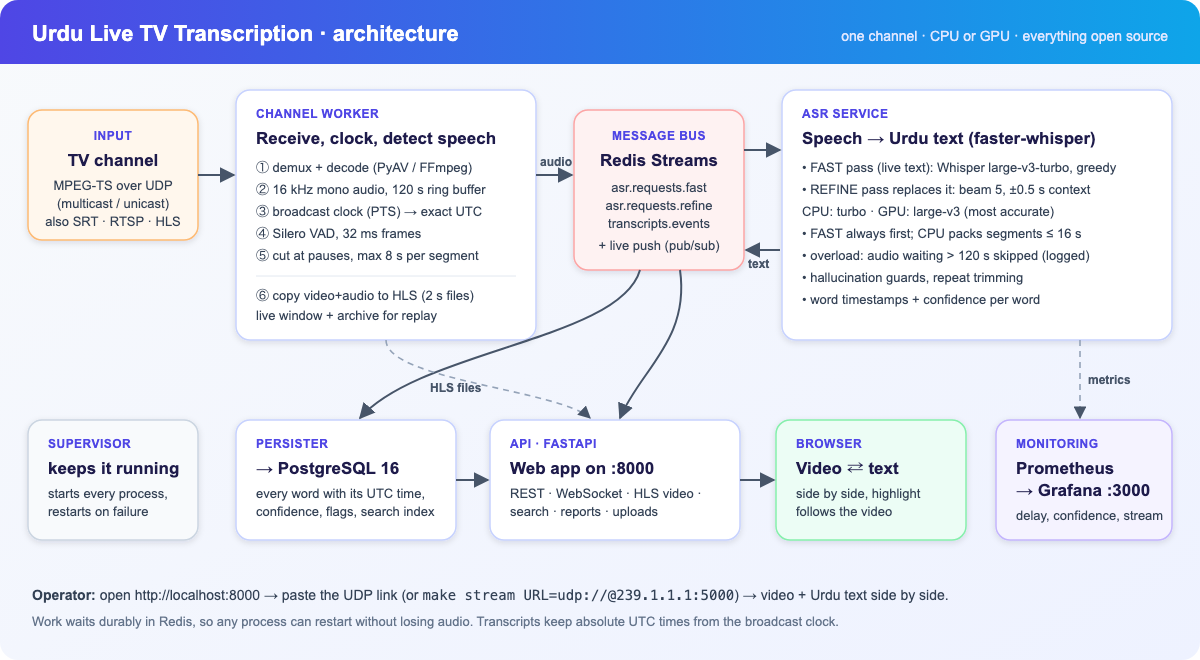
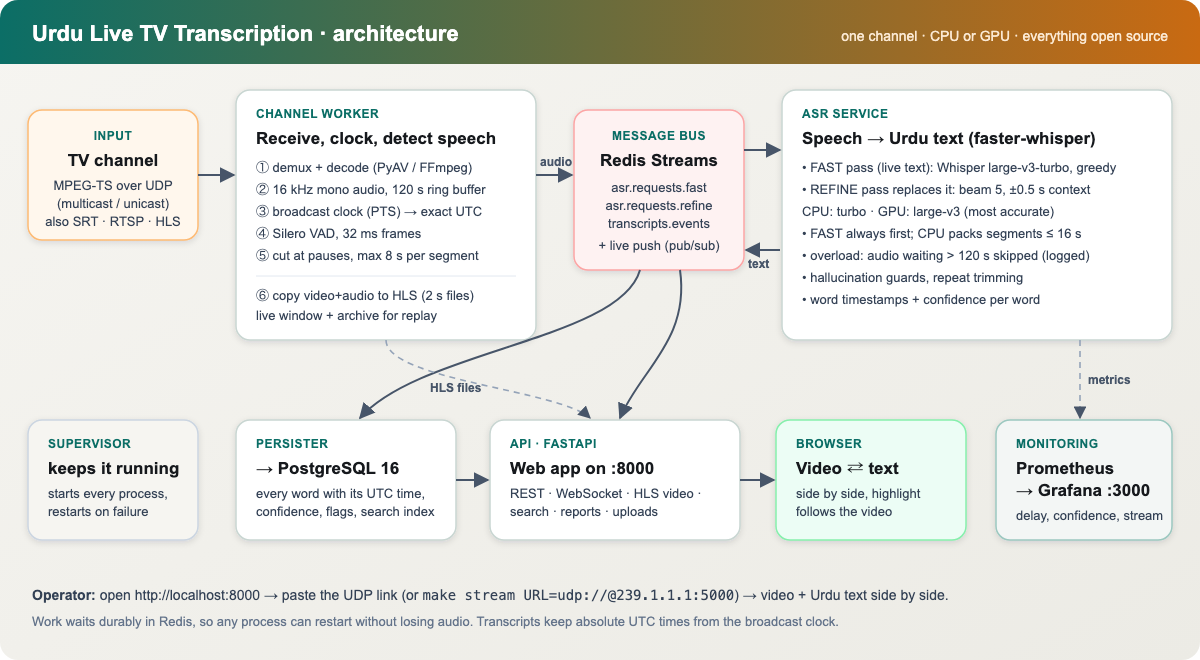
v0.2.5: new UI colour scheme with clearer buttons and depth effects; 6 s segment benchmark (8 s kept)

diff --git a/ui/common.css b/ui/common.css
@@ -1,18 +1,23 @@
 /* Shared look for every live-stt page. Light by default; the ☀/☾ button in the top bar switches to
    dark (remembered in this browser). */
 :root {
-  --bg: #f4f6fb; --panel: #ffffff; --panel2: #f8fafc; --ink: #0f172a; --muted: #64748b; --line: #e2e8f0;
-  --accent: #4f46e5; --accent2: #0ea5e9; --accent-ink: #ffffff; --soft: #eef2ff;
-  --ok: #15803d; --ok-soft: #dcfce7; --warn: #b45309; --warn-soft: #fef3c7; --bad: #dc2626; --bad-soft: #fee2e2;
-  --hi: #fef9c3; --shadow: 0 1px 2px rgba(15, 23, 42, .06), 0 4px 16px rgba(15, 23, 42, .06);
+  /* Broadcast-desk palette: warm paper, graphite ink, deep teal for actions, amber for "now". */
+  --bg: #f3f2ee; --panel: #ffffff; --panel2: #f7f6f2; --ink: #16191d; --muted: #4f5862; --line: #dcdad3;
+  --accent: #0b6e66; --accent2: #c96a12; --accent-ink: #ffffff; --soft: #e2f0ed; --btn-line: #b9bdb8;
+  --ok: #167343; --ok-soft: #dcf2e4; --warn: #9a5508; --warn-soft: #fbedd5; --bad: #c42b2b; --bad-soft: #fbe1df;
+  --hi: #fde7b5; --shadow: 0 1px 1px rgba(22, 25, 29, .05), 0 6px 22px -8px rgba(22, 25, 29, .16);
+  --shadow-lift: 0 2px 4px rgba(22, 25, 29, .06), 0 18px 40px -14px rgba(22, 25, 29, .28);
+  --glow1: rgba(11, 110, 102, .10); --glow2: rgba(201, 106, 18, .08);
   --radius: 14px; --urdu-size: 22px;
   color-scheme: light;
 }
 :root[data-theme="dark"] {
-  --bg: #0b1020; --panel: #121a2e; --panel2: #0f1628; --ink: #e5e9f5; --muted: #94a3b8; --line: #23304d;
-  --accent: #818cf8; --accent2: #38bdf8; --accent-ink: #0b1020; --soft: #1e2547;
-  --ok: #4ade80; --ok-soft: #12321f; --warn: #fbbf24; --warn-soft: #3a2a07; --bad: #f87171; --bad-soft: #3b1414;
-  --hi: #3a3410; --shadow: 0 1px 2px rgba(0, 0, 0, .4), 0 4px 16px rgba(0, 0, 0, .3);
+  --bg: #0f1214; --panel: #171b1e; --panel2: #1c2124; --ink: #ecefee; --muted: #a9b1b6; --line: #2a3135;
+  --accent: #3cc5b0; --accent2: #f0a24a; --accent-ink: #062320; --soft: #15322e; --btn-line: #3d464b;
+  --ok: #5bd28c; --ok-soft: #133022; --warn: #f3b552; --warn-soft: #3a2a0c; --bad: #ff8077; --bad-soft: #3d1715;
+  --hi: #4a3a12; --shadow: 0 1px 2px rgba(0, 0, 0, .45), 0 8px 24px -10px rgba(0, 0, 0, .6);
+  --shadow-lift: 0 2px 6px rgba(0, 0, 0, .5), 0 22px 44px -14px rgba(0, 0, 0, .75);
+  --glow1: rgba(60, 197, 176, .09); --glow2: rgba(240, 162, 74, .06);
   color-scheme: dark;
 }
 * { box-sizing: border-box; }
@@ -22,27 +27,39 @@ body { margin: 0; background: var(--bg); color: var(--ink);
        font: 15px/1.5 "Inter", system-ui, -apple-system, "Segoe UI", Roboto, sans-serif; }
 a { color: var(--accent); text-decoration: none; }
 a:hover { text-decoration: underline; }
-input, select, button, textarea { font: inherit; padding: 7px 11px; border: 1px solid var(--line); border-radius: 10px;
+input, select, button, textarea { font: inherit; padding: 8px 12px; border: 1px solid var(--btn-line); border-radius: 10px;
                                    background: var(--panel); color: var(--ink); min-width: 0; }
-input:focus, select:focus, textarea:focus { outline: 2px solid var(--soft); border-color: var(--accent); }
-button { cursor: pointer; font-weight: 500; transition: border-color .15s, background .15s; }
-button:hover:not(:disabled) { border-color: var(--accent); }
-button.primary { background: var(--accent); border-color: var(--accent); color: var(--accent-ink); }
-button.primary:hover:not(:disabled) { filter: brightness(1.08); }
+input:focus, select:focus, textarea:focus { outline: 3px solid var(--soft); border-color: var(--accent); }
+:focus-visible { outline: 3px solid var(--accent); outline-offset: 2px; }
+button { cursor: pointer; font-weight: 600; font-size: 14.5px; letter-spacing: .005em; color: var(--ink);
+         transition: border-color .15s, background .15s, transform .15s, box-shadow .15s; box-shadow: 0 1px 0 rgba(0,0,0,.04); }
+button:hover:not(:disabled) { border-color: var(--accent); color: var(--accent); transform: translateY(-1px); box-shadow: var(--shadow); }
+button:active:not(:disabled) { transform: translateY(0); }
+button.primary { background: var(--accent); border-color: var(--accent); color: var(--accent-ink);
+                 box-shadow: 0 1px 0 rgba(255,255,255,.18) inset, 0 4px 14px -6px var(--accent); }
+button.primary:hover:not(:disabled) { color: var(--accent-ink); filter: brightness(1.07); }
 button.ghost { background: transparent; }
 button:disabled { opacity: .55; cursor: default; }
 
 /* ---- top bar */
 nav.top { display: flex; flex-wrap: wrap; gap: 6px 4px; align-items: center; padding: 10px 20px;
-          background: var(--panel); border-bottom: 1px solid var(--line); position: sticky; top: 0; z-index: 5; }
+          background: color-mix(in srgb, var(--panel) 86%, transparent); backdrop-filter: saturate(1.4) blur(12px);
+          -webkit-backdrop-filter: saturate(1.4) blur(12px); border-bottom: 1px solid var(--line); position: sticky; top: 0; z-index: 5; }
 nav.top .brand { display: flex; min-width: 0; align-items: center; gap: 10px; font-weight: 700; font-size: 17px; margin-inline-end: 14px; color: var(--ink); }
-nav.top .brand .logo { width: 30px; height: 30px; border-radius: 9px; display: grid; place-items: center; color: #fff; font-size: 15px;
-                       background: linear-gradient(135deg, var(--accent), var(--accent2)); }
-nav.top a.tab { color: var(--muted); padding: 7px 12px; border-radius: 9px; white-space: nowrap; font-weight: 500; }
+nav.top .brand .logo { width: 32px; height: 32px; border-radius: 9px; display: flex; align-items: center; justify-content: center; gap: 2px;
+                       background: var(--ink); box-shadow: 0 6px 14px -6px rgba(0,0,0,.5), inset 0 1px 0 rgba(255,255,255,.12); }
+nav.top .brand .logo i { width: 3px; height: 40%; border-radius: 2px; background: var(--accent2); animation: eq 1.1s ease-in-out infinite; }
+nav.top .brand .logo i:nth-child(2) { animation-delay: -.25s; background: #fff; }
+nav.top .brand .logo i:nth-child(3) { animation-delay: -.5s; }
+nav.top .brand .logo i:nth-child(4) { animation-delay: -.75s; background: #fff; }
+:root[data-theme="dark"] nav.top .brand .logo { background: #262d31; }
+@keyframes eq { 0%, 100% { height: 30%; } 50% { height: 72%; } }
+nav.top a.tab { color: var(--muted); padding: 8px 13px; border-radius: 9px; white-space: nowrap; font-weight: 600; font-size: 14.5px; position: relative; }
 nav.top a.tab:hover { background: var(--panel2); color: var(--ink); text-decoration: none; }
-nav.top a.tab.on { background: var(--soft); color: var(--accent); font-weight: 600; }
+nav.top a.tab.on { background: var(--soft); color: var(--accent); font-weight: 700; }
+nav.top a.tab.on::after { content: ""; position: absolute; inset: auto 13px -11px 13px; height: 3px; border-radius: 3px 3px 0 0; background: var(--accent); }
 nav.top .sp { flex: 1; }
-.pill { font-size: 12.5px; padding: 4px 10px; border-radius: 999px; border: 1px solid var(--line); color: var(--muted);
+.pill { font-size: 13px; padding: 5px 11px; border-radius: 999px; border: 1px solid var(--btn-line); color: var(--ink);
         white-space: nowrap; background: var(--panel); font-weight: 500; }
 a.pill:hover { text-decoration: none; border-color: var(--accent); }
 .pill.ok { color: var(--ok); border-color: transparent; background: var(--ok-soft); }
@@ -99,9 +116,9 @@ table.t th { font-size: 12px; color: var(--muted); font-weight: 600; }
 /* ---- metric cards */
 .metrics { display: grid; gap: 14px; grid-template-columns: repeat(auto-fit, minmax(190px, 1fr)); margin-bottom: 16px; }
 .metric { background: var(--panel); border: 1px solid var(--line); border-radius: var(--radius); padding: 14px 16px; box-shadow: var(--shadow); min-width: 0; }
-.metric .k { font-size: 12.5px; color: var(--muted); font-weight: 600; text-transform: uppercase; letter-spacing: .03em; }
+.metric .k { font-size: 13px; color: var(--muted); font-weight: 600; text-transform: uppercase; letter-spacing: .03em; }
 .metric .v { font-size: 30px; font-weight: 700; margin: 2px 0; font-variant-numeric: tabular-nums; line-height: 1.2; }
-.metric .h { font-size: 12.5px; color: var(--muted); }
+.metric .h { font-size: 13px; color: var(--muted); }
 .metric.good .v { color: var(--ok); } .metric.mid .v { color: var(--warn); } .metric.bad .v { color: var(--bad); }
 
 /* ---- transcript lines */
@@ -143,3 +160,31 @@ code { font-size: 12.5px; background: var(--panel2); border: 1px solid var(--lin
 }
 .tools { display: flex; flex-wrap: wrap; gap: 8px; align-items: center; margin-top: 10px; }
 .tools .grow { flex: 1; }
+
+/* ---- depth & motion: ambient light, card lift with a slight 3D tilt (common.js), staggered entrance */
+body { background:
+  radial-gradient(1100px 520px at 8% -8%, var(--glow1), transparent 60%),
+  radial-gradient(900px 480px at 100% 0%, var(--glow2), transparent 60%), var(--bg); background-attachment: fixed; }
+body.embed { background: var(--bg); }
+.card, .metric { transform-style: preserve-3d; transition: transform .35s cubic-bezier(.2,.7,.2,1), box-shadow .35s, border-color .35s; }
+.metric { position: relative; overflow: hidden; }
+.metric::before { content: ""; position: absolute; inset: 0 0 auto 0; height: 3px; background: var(--line); }
+.metric.good::before { background: var(--ok); } .metric.mid::before { background: var(--warn); } .metric.bad::before { background: var(--bad); }
+.metric::after { content: ""; position: absolute; inset: 0; pointer-events: none; opacity: 0; transition: opacity .3s;
+  background: radial-gradient(260px circle at var(--mx, 50%) var(--my, 50%), rgba(255,255,255,.35), transparent 60%); }
+:root[data-theme="dark"] .metric::after { background: radial-gradient(260px circle at var(--mx, 50%) var(--my, 50%), rgba(255,255,255,.06), transparent 60%); }
+.metric.tilt, .card.tilt { box-shadow: var(--shadow-lift); }
+.metric.tilt::after { opacity: 1; }
+.fx-in { animation: fxIn .6s cubic-bezier(.2,.7,.2,1) both; }
+@keyframes fxIn { from { opacity: 0; transform: translateY(14px) scale(.985); } to { opacity: 1; transform: none; } }
+.vid { box-shadow: 0 20px 40px -22px rgba(0,0,0,.55); }
+.vid .badge { box-shadow: 0 0 0 0 rgba(196,43,43,.6); animation: live 1.8s infinite; }
+.vid .badge.replay { animation: none; }
+@keyframes live { 0% { box-shadow: 0 0 0 0 rgba(220,38,38,.55); } 70% { box-shadow: 0 0 0 10px rgba(220,38,38,0); } 100% { box-shadow: 0 0 0 0 rgba(220,38,38,0); } }
+.sent { transition: background .25s, box-shadow .25s; }
+.sent.hi { box-shadow: inset 4px 0 0 var(--accent2); background: color-mix(in srgb, var(--accent2) 11%, var(--panel)); }
+.sent .t { color: var(--accent); }
+.page-title h1, .hero h1 { letter-spacing: -.015em; }
+@media (prefers-reduced-motion: reduce) {
+  *, *::before, *::after { animation: none !important; transition: none !important; }
+}

diff --git a/ui/common.js b/ui/common.js
@@ -128,7 +128,7 @@ async function nav(active) {
   if (EMBED) { document.body.classList.add("embed"); return; }
   const n = document.createElement("nav");
   n.className = "top";
-  n.innerHTML = `<a class="brand" href="/"><span class="logo">◉</span>Urdu Live Transcription</a>` +
+  n.innerHTML = `<a class="brand" href="/"><span class="logo" aria-hidden="true"><i></i><i></i><i></i><i></i></span>Urdu Live Transcription</a>` +
     PAGES.map(([k, href, label]) => `<a class="tab${k === active ? " on" : ""}" href="${href}">${label}</a>`).join("") +
     `<span class="sp"></span><span id="navHealth" class="pill" title="Server health">checking…</span>
      <a id="navGrafana" class="pill" target="_blank" rel="noopener" title="Metrics dashboard">Grafana ↗</a>
@@ -287,3 +287,24 @@ function hlsSeekEpoch(h, video, t) {
 async function channelList() {   // live channels for selects: [{id, name}]
   try { return (await api("/channels")).map(c => ({ id: c.id, name: c.name || c.id, enabled: c.enabled })); } catch (e) { return []; }
 }
+
+// Depth: cards rise with a slight 3D tilt toward the pointer; cards fade in on load. Off for reduced motion / touch.
+(function fx() {
+  if (matchMedia("(prefers-reduced-motion: reduce)").matches) return;
+  const start = () => {
+    document.querySelectorAll(".wrap > .card, .wrap > .split > .card, .metrics > .metric, .wrap > .grid2 > .card")
+      .forEach((el, i) => { el.classList.add("fx-in"); el.style.animationDelay = `${Math.min(i, 8) * 55}ms`;
+        el.addEventListener("animationend", () => { el.classList.remove("fx-in"); el.style.animationDelay = ""; }, { once: true }); });
+  };
+  document.readyState === "loading" ? document.addEventListener("DOMContentLoaded", start) : start();
+  if (!matchMedia("(hover: hover)").matches) return;
+  document.addEventListener("pointermove", (e) => {
+    const el = e.target.closest && e.target.closest(".metric");
+    document.querySelectorAll(".metric.tilt").forEach((m) => { if (m !== el) { m.classList.remove("tilt"); m.style.transform = ""; } });
+    if (!el) return;
+    const r = el.getBoundingClientRect(), x = (e.clientX - r.left) / r.width, y = (e.clientY - r.top) / r.height;
+    el.classList.add("tilt");
+    el.style.setProperty("--mx", `${x * 100}%`); el.style.setProperty("--my", `${y * 100}%`);
+    el.style.transform = `perspective(700px) rotateX(${(0.5 - y) * 7}deg) rotateY(${(x - 0.5) * 9}deg) translateY(-3px)`;
+  }, { passive: true });
+})();

diff --git a/infra/grafana/build_dashboard.py b/infra/grafana/build_dashboard.py
@@ -75,7 +75,7 @@ DELAY_STEPS = [{"color": "green", "value": None}, {"color": "orange", "value": 2
                {"color": "red", "value": 60}]
 ch_sel = 'channel="$channel"'
 PILL = ("padding:5px 12px;border-radius:999px;border:1px solid rgba(128,128,128,.35);"
-        "text-decoration:none;font-size:13px;font-weight:500;white-space:nowrap")
+        "text-decoration:none;font-size:13.5px;font-weight:600;white-space:nowrap;color:#1f8f84")
 THEME_LINK = ("?orgId=1&theme={t}&var-ui_theme={t}&var-channel=${{channel}}&var-pg=${{pg}}"
               "&var-ui_url=${{ui_url}}&var-min_conf=${{min_conf}}&from=now-30m&to=now&refresh=5s")
 
@@ -94,13 +94,13 @@ def header() -> dict:
         '<div style="display:flex;align-items:center;gap:12px 16px;flex-wrap:wrap;'
         'padding:2px 64px 2px 2px">'  # right padding keeps clear of Grafana's hover menu
         '<div style="width:40px;height:40px;border-radius:12px;display:grid;place-items:center;'
-        'color:#fff;font-size:20px;background:linear-gradient(135deg,#4f46e5,#0ea5e9)">◉</div>'
+        'color:#fff;font-size:20px;background:#16191d;box-shadow:inset 0 -3px 0 #c96a12">◉</div>'
         '<div><div style="font-size:20px;font-weight:700;line-height:1.2">Urdu Live '
         'Transcription</div><div style="font-size:13px;opacity:.7">Channel <b>${channel}</b> · '
         'live monitoring, refreshed every 5 s</div></div>' + theme +
         '<span style="flex:1"></span>'
-        f'<a href="{UI}/" target="_blank" rel="noopener" style="{PILL};background:#4f46e5;'
-        'color:#fff;border-color:#4f46e5">▶ Open live app</a>' +
+        f'<a href="{UI}/" target="_blank" rel="noopener" style="{PILL};background:#0b6e66;'
+        'color:#fff;border-color:#0b6e66">▶ Open live app</a>' +
         "".join(f'<a href="{UI}{h}" target="_blank" rel="noopener" style="{PILL}">{t}</a>'
                 for t, h in links) + "</div>")
     return {"id": 120, "type": "text", "title": "", "transparent": True,

diff --git a/bench/run_bench.py b/bench/run_bench.py
@@ -66,6 +66,7 @@ MATRICES = {
     # Smaller chunks / smaller packs for lower delay (CPU), vs the current live FAST config.
     "latency": [Cfg(T, 1, 10, pack=28), Cfg(T, 1, 8, pack=16), Cfg(T, 1, 6, pack=12),
                 Cfg(T, 1, 4, pack=12), Cfg(T, 1, 6, pack=18)],
+    "latency6": [Cfg(T, 1, 6, pack=12), Cfg(T, 1, 6, pack=18)],
     "turbo": [Cfg(T, 1), Cfg(T, 2), Cfg(T, 5), Cfg(T, 1, 6), Cfg(T, 1, 10), Cfg(T, 1, threads=16)],
     "large": [Cfg(L, 1), Cfg(L, 5)],
 }

diff --git a/docs/BENCHMARKS.md b/docs/BENCHMARKS.md
@@ -36,6 +36,20 @@ RTF = inference seconds ÷ programme seconds (VAD-gated). Simulated latency = sp
 | large-v3 int8 b1 seg8 t8 pack28 | 24.3% | 16.1% | 24.3% | 1.064 | 1.328 | 28.67 / 38.77 | 0.0% / 0.0% | 0.21 / 0.47 | 40 | 10101 |
 | large-v3 int8 b5 seg8 t8 pack28 | 23.8% | 16.2% | 23.8% | 1.272 | 1.588 | 76.44 / 104.37 | 0.0% / 0.0% | 0.21 / 0.47 | 40 | 10602 |
 
+### Segment length on this CPU (`make bench MATRIX=latency` / `MATRIX=latency6`)
+
+One run each, 2026-11-25/26, same reference programme.
+
+| Config | WER | CER | RTF | sim. lat p50/p95 (s) | ts err p50/p95 (s) |
+|---|---|---|---|---|---|
+| large-v3-turbo int8 b1 seg10 t8 pack28 | 26.4% | 16.2% | 1.034 | 35.17 / 47.21 | 0.19 / 0.58 |
+| **large-v3-turbo int8 b1 seg8 t8 pack16** (CPU profiles) | **20.7%** | **9.2%** | 0.982 | **12.89 / 22.51** | 0.20 / 0.52 |
+| large-v3-turbo int8 b1 seg6 t8 pack12 | 22.4% | 11.2% | 1.001 | 31.03 / 73.84 | 0.21 / 0.82 |
+| large-v3-turbo int8 b1 seg6 t8 pack18 | 22.9% | 11.3% | 1.006 | 13.63 / 21.71 | 0.20 / 0.56 |
+
+Shorter segments mean more calls, each paying the fixed 30 s encoder pass, and give Whisper less
+context; at RTF ≈ 1 the extra calls turn into queueing. 8 s / 16 s is kept.
+
 ## Model decision (from the table above)
 
 * **FAST** = `large-v3-turbo int8 b1 seg8 t8 pack28` — WER 23.3%, RTF 0.953. Within the configured 3-pt margin of large-v3 or the fastest real-time option.

diff --git a/CHANGELOG.md b/CHANGELOG.md
@@ -1,5 +1,14 @@
 # Changelog
 
+## 0.2.5 — 2026-11-26
+- UI: new broadcast-desk colour scheme (warm paper, graphite, deep teal actions, amber "now"
+  highlight; matching dark theme), larger and higher-contrast buttons, tabs and pills, visible
+  keyboard focus, animated equaliser logo, card entrance and pointer-tilt depth effects
+  (disabled for `prefers-reduced-motion` and touch). Grafana header and diagrams follow the palette.
+- Bench: `latency6` matrix. 6 s segments did not beat 8 s on the laptop CPU (pack 12: delay p50
+  31.0 s, WER 22.4 %; pack 18: 13.6 s, 22.9 %; vs 12.9 s, 20.7 % at 8 s / 16 s), so the CPU
+  profiles keep 8 s / 16 s.
+
 ## 0.2.4 — 2026-11-26
 - **One-step stream entry**: the live page shows the stream link with **✎ Change** and opens a
   large "Enter the stream link" box by itself when nothing arrives; `make stream URL=…` /

diff --git a/README.md b/README.md
@@ -174,7 +174,7 @@ and streaming mode (see the GPU edition); on this CPU, streaming mode falls >100
 | 4.5 h soak, looping programme with a timestamp reset every loop | 0 crashes or restarts, **0 lost segments** (1 868 emitted, 1 867 done, 2 in flight at stop). Worker/persister/API memory flat; ASR memory +≈130 MB/h (open issue) |
 | Clock | median drift −50 ms; re-anchors on every discontinuity |
 | Word timestamps vs true speech onsets (file input) | 0.13–0.21 s |
-| Automated tests | 210 unit + integration tests (property-based, real Redis/Postgres, real ffmpeg streams, live UDP, real model end-to-end) |
+| Automated tests | 200+ unit + integration tests (property-based, real Redis/Postgres, real ffmpeg streams, live UDP, real model end-to-end) |
 
 ### Capacity
 
